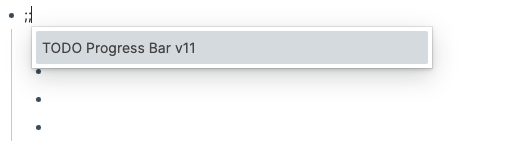
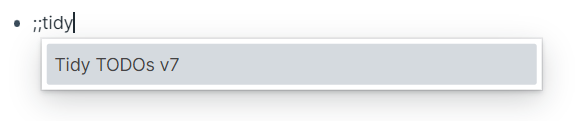
fix:README

diff --git a/extension.js b/extension.js
@@ -1,1 +1,1 @@
-var r={694:(r,n,e)=>{e.d(n,{Z:()=>s});var o=e(81),t=e.n(o),a=e(645),l=e.n(a)()(t());l.push([r.id,':root{\r\n  --progress-bar-default:#137cbd;\r\n  --progress-bar:#137cbd;\r\n  --progress-border:#B6B6B6;\r\n  --progress-bg:#dfe2e5;\r\n}\r\n:root .rm-dark-theme {\r\n  --progress-border:#137cbd;\r\n  --progress-bg:#EFEFEF;\r\n}\r\n/* THIS CODEBLOCK IS OVERWRITTEN ON EVERY VERSION UPDATE\r\nDO NOT MODIFY*/\r\nprogress[name="percent-done"],\r\n.todo-progress-bar progress{\r\n  display:inline-block;\r\n  height:6px;\r\n  background:none;\r\n  border-radius: 15px;\r\n  margin-bottom:2px;\r\n}\r\n  \r\nprogress::-webkit-progress-bar,\r\n.todo-progress-bar progress::-webkit-progress-bar{\r\n  height:6px;\r\n  background-color: var(--progress-bg);\r\n  border-radius: 15px;\r\n}\r\n\r\n.rm-dark-theme progress::-webkit-progress-bar,\r\n.rm-dark-theme .todo-progress-bar progress::-webkit-progress-bar{\r\nbox-shadow:0px 0px 6px var(--progress-border) inset;\r\n}\r\n\r\nprogress::-webkit-progress-value,\r\n.todo-progress-bar progress::-webkit-progress-value{\r\n  display:inline-block;\r\n  float:left;\r\n  height:6px;\r\n  margin:0px -10px 0 0;\r\n  background: var(--progress-bar);\r\n  border-radius: 5px;\r\n}',""]);const s=l},645:r=>{r.exports=function(r){var n=[];return n.toString=function(){return this.map((function(n){var e="",o=void 0!==n[5];return n[4]&&(e+="@supports (".concat(n[4],") {")),n[2]&&(e+="@media ".concat(n[2]," {")),o&&(e+="@layer".concat(n[5].length>0?" ".concat(n[5]):""," {")),e+=r(n),o&&(e+="}"),n[2]&&(e+="}"),n[4]&&(e+="}"),e})).join("")},n.i=function(r,e,o,t,a){"string"==typeof r&&(r=[[null,r,void 0]]);var l={};if(o)for(var s=0;s<this.length;s++){var i=this[s][0];null!=i&&(l[i]=!0)}for(var d=0;d<r.length;d++){var c=[].concat(r[d]);o&&l[c[0]]||(void 0!==a&&(void 0===c[5]||(c[1]="@layer".concat(c[5].length>0?" ".concat(c[5]):""," {").concat(c[1],"}")),c[5]=a),e&&(c[2]?(c[1]="@media ".concat(c[2]," {").concat(c[1],"}"),c[2]=e):c[2]=e),t&&(c[4]?(c[1]="@supports (".concat(c[4],") {").concat(c[1],"}"),c[4]=t):c[4]="".concat(t)),n.push(c))}},n}},81:r=>{r.exports=function(r){return r[1]}},923:r=>{r.exports='(ns progress-bar-v11\r\n  (:require\r\n   [reagent.core :as r]\r\n   [datascript.core :as d]\r\n   [roam.datascript.reactive :as dr]\r\n   [clojure.pprint :as pp]))\r\n\r\n; THIS CODEBLOCK IS OVERWRITTEN ON EVERY VERSION UPDATE\r\n; DO NOT MODIFY\r\n\r\n(defn flatten-block \r\n  "Flattens a blocks children into a flat list"\r\n  [acc block]\r\n  (reduce flatten-block\r\n          (conj acc (dissoc block :block/children))\r\n          (:block/children block)))\r\n\r\n(defn find-child-refs\r\n  "Returns all _refs for children blocks given a parent block uid"\r\n  [block-uid]\r\n  (flatten-block []\r\n             @(dr/q \'[:find (pull ?e [:block/refs{:block/children ...}]) .\r\n                      :in $ ?uid\r\n                      :where\r\n                      [?e :block/uid ?uid]]\r\n                    block-uid)))\r\n\r\n(defn id-title \r\n  "Gets a page\'s title from its db id"\r\n  [id]\r\n  (:node/title @(dr/pull \'[:node/title] id))\r\n  )\r\n\r\n(defn info-from-id [id]\r\n  \t(or (:node/title @(dr/pull \'[:node/title] id))\r\n      (map\r\n       id-title \r\n       (map \r\n       \t\t:db/id\r\n       \t\t(:block/refs @(dr/pull \'[:block/refs] id))\r\n       ))\r\n      )\r\n  )\r\n\r\n(defn count-occurrences \r\n  "Counts the occurances of a string in a list"\r\n  [s slist]\r\n  (->> slist\r\n       flatten\r\n       (filter #{s})\r\n       count))\r\n\r\n\r\n(defn recurse-search\r\n  "Recursivly search through a block\'s children for all pages referenced"\r\n  [block-uid]\r\n  (->> block-uid\r\n       (find-child-refs)\r\n       (map :block/refs)\r\n       (flatten)\r\n       (map :db/id)\r\n       (map  info-from-id)\r\n       (flatten)))\r\n\r\n\r\n(defn main [{:keys [block-uid]} & args]\r\n  (let [tasks (r/atom {;; don\'t love that I do this search twice\r\n                       :todo (count-occurrences "TODO" (recurse-search block-uid))\r\n                       :done (count-occurrences "DONE" (recurse-search block-uid))} )]\r\n    \r\n      [:div\r\n             [:div {:style {:display "flex"\r\n                                 :align-items "center"}\r\n                         }\r\n                   [:span [:progress {\r\n                      :id "file"\r\n                      :name "percent-done"\r\n                      :value (:done @tasks)\r\n                      :max (+ (:todo @tasks) (:done @tasks))\r\n                      :style{\r\n\r\n                             :margin-left "10px"\r\n                             :margin-right "10px"\r\n                             }}]\r\n                    ]\r\n                    [:span [:div  (str (:done @tasks)  "/"\r\n                                      (+ \r\n                                        (:done @tasks)\r\n                                        (:todo @tasks))\r\n                                    " Done"\r\n                                    )]]\r\n\r\n                   ]\r\n           ]\r\n  ))'}},n={};function e(o){var t=n[o];if(void 0!==t)return t.exports;var a=n[o]={id:o,exports:{}};return r[o](a,a.exports,e),a.exports}e.n=r=>{var n=r&&r.__esModule?()=>r.default:()=>r;return e.d(n,{a:n}),n},e.d=(r,n)=>{for(var o in n)e.o(n,o)&&!e.o(r,o)&&Object.defineProperty(r,o,{enumerable:!0,get:n[o]})},e.o=(r,n)=>Object.prototype.hasOwnProperty.call(r,n);var o={};(()=>{e.d(o,{Z:()=>g});var r=e(694),n=e(923),t=e.n(n);const a="roam-render-todo-progress-cljs",l="roam-render-todo-progress-css";function s(r){roamAlphaAPI.deleteBlock({block:{uid:r}})}function i(){let r=new Date(Date.now());return window.roamAlphaAPI.util.dateToPageTitle(r)}function d(r){let n=roamAlphaAPI.util.generateUID();return roamAlphaAPI.data.page.create({page:{title:r,uid:n}}),n}function c(r){return roamAlphaAPI.q(`[:find (pull ?e [:block/uid]) :where [?e :node/title "${r}"]]`)?.[0]?.[0].uid||null}function p(r){if(1==r){let r=`[:find\n            (pull ?node [:block/string :node/title :block/uid])\n        :where\n            (or [?node :block/string ?node-String]\n        [?node :node/title ?node-String])\n            [(clojure.string/includes? ?node-String "{{[[roam/render]]:((${a}))}}")]\n        ]`,n=`{{[[roam/render]]:((${a}))}}`,e="{{todo-progress-bar}}";window.roamAlphaAPI.q(r).flat().forEach((r=>{const o=r.string.replace(n,e);window.roamAlphaAPI.updateBlock({block:{uid:r.uid,string:o}})}))}else if(0==r){let r="{{todo-progress-bar}}",n=`[:find\n            (pull ?node [:block/string :node/title :block/uid])\n        :where\n            (or [?node :block/string ?node-String]\n        [?node :node/title ?node-String])\n            [(clojure.string/includes? ?node-String "${r}")]\n        ]`,e=`{{[[roam/render]]:((${a}))}}`;window.roamAlphaAPI.q(n).flat().forEach((n=>{const o=n.string.replace(r,e);window.roamAlphaAPI.updateBlock({block:{uid:n.uid,string:o}})}))}}function u(n){let e="roam-render-todo-progress",o="todo-progress-css-parent";1==n?(function(r,n){let e=c(r)||d(r),o=roamAlphaAPI.util.generateUID(),l=roamAlphaAPI.util.generateUID(),s=roamAlphaAPI.util.generateUID();roamAlphaAPI.createBlock({location:{"parent-uid":e,order:0},block:{string:`TODO Progress Bar [[${i()}]]`,uid:n,open:!0,heading:3}}),roamAlphaAPI.createBlock({location:{"parent-uid":n,order:0},block:{string:"TODO Progress Bar v11 [[roam/templates]]",uid:o,open:!0}}),roamAlphaAPI.createBlock({location:{"parent-uid":o,order:0},block:{string:`{{[[roam/render]]:((${a}))}}`,uid:s}}),roamAlphaAPI.createBlock({location:{"parent-uid":n,order:"last"},block:{string:"code",uid:l,open:!1}});let p="```clojure\n "+t()+" ```";roamAlphaAPI.createBlock({location:{"parent-uid":l,order:0},block:{uid:a,string:p}})}("roam/render",e),function(n){let e=c("roam/css")||d("roam/css");roamAlphaAPI.createBlock({location:{"parent-uid":e,order:"last"},block:{string:`TODO PROGRESS BAR STYLE [[${i()}]]`,uid:n,open:!1,heading:3}});let o="```css\n "+r.Z.toString()+" ```";roamAlphaAPI.createBlock({location:{"parent-uid":n,order:0},block:{uid:l,string:o}})}(o)):0==n&&(p(!0),s(e),s(o))}const g={onload:function({extensionAPI:n}){roamAlphaAPI.data.pull("[*]",[":block/uid","roam-render-todo-progress"])?(function(){let n="```css\n "+r.Z.toString()+" ```";roamAlphaAPI.updateBlock({block:{uid:l,string:n}})}(),function(){let r="```clojure\n "+t()+" ```";roamAlphaAPI.updateBlock({block:{uid:a,string:r}})}(),p(!1)):u(!0),console.log("load todo progress bar plugin")},onunload:function(){console.log("unload todo progress bar plugin"),u(!1)}}})();var t=o.Z;export{t as default};
+var r={100:(r,n,t)=>{t.d(n,{Z:()=>l});var o=t(81),e=t.n(o),i=t(645),a=t.n(i)()(e());a.push([r.id,'span.rm-page-ref[data-tag="tidy"], span.rm-page-ref[data-tag="tidy"] {\r\n  background: none;\r\n  border-radius: 10px;\r\n  padding: 1px 10px 1px 10px;\r\n  zoom: 80%;\r\n  color:#5c7080 !important;\r\n  border: 1px solid #5c7080 !important;\r\n  margin: 0 4px !important;\r\n}\r\n\r\n.tidyButton{\r\n  margin:0 5px 0 -2px !important\r\n}\r\n\r\n.tidyRemoveButton {\r\n  margin-left: -8px !important;\r\n  margin-top: -2px !important;\r\n}\r\n\r\n.tidyButton:hover,  .tidyRemoveButton:hover{\r\n  background: transparent !important;\r\n}\r\n\r\n.tidyButton span, .tidyRemoveButton span {\r\n  padding-left: -2px !important;\r\n}\r\n\r\n.tidyButton svg, .tidyRemoveButton svg {\r\n  width: 14px !important;\r\n  height: 14px !important;\r\n  opacity: 0.8 !important;\r\n}',""]);const l=a},645:r=>{r.exports=function(r){var n=[];return n.toString=function(){return this.map((function(n){var t="",o=void 0!==n[5];return n[4]&&(t+="@supports (".concat(n[4],") {")),n[2]&&(t+="@media ".concat(n[2]," {")),o&&(t+="@layer".concat(n[5].length>0?" ".concat(n[5]):""," {")),t+=r(n),o&&(t+="}"),n[2]&&(t+="}"),n[4]&&(t+="}"),t})).join("")},n.i=function(r,t,o,e,i){"string"==typeof r&&(r=[[null,r,void 0]]);var a={};if(o)for(var l=0;l<this.length;l++){var d=this[l][0];null!=d&&(a[d]=!0)}for(var c=0;c<r.length;c++){var s=[].concat(r[c]);o&&a[s[0]]||(void 0!==i&&(void 0===s[5]||(s[1]="@layer".concat(s[5].length>0?" ".concat(s[5]):""," {").concat(s[1],"}")),s[5]=i),t&&(s[2]?(s[1]="@media ".concat(s[2]," {").concat(s[1],"}"),s[2]=t):s[2]=t),e&&(s[4]?(s[1]="@supports (".concat(s[4],") {").concat(s[1],"}"),s[4]=e):s[4]="".concat(e)),n.push(s))}},n}},81:r=>{r.exports=function(r){return r[1]}},186:r=>{r.exports='(ns tidy-todo-v8\r\n  (:require\r\n   [reagent.core :as r]\r\n   [roam.block :as block]\r\n   [datascript.core :as d]\r\n   [roam.datascript.reactive :as dr]\r\n   [clojure.string :as str]\r\n   [clojure.pprint :refer [pprint]]\r\n   [promesa.core :as p]\r\n   [roam.util :refer [parse]]\r\n   [blueprintjs.core :as bp]\r\n   [roam.datascript :as rd]\r\n   ))\r\n\r\n; THIS CODEBLOCK IS OVERWRITTEN ON EVERY VERSION UPDATE\r\n; DO NOT MODIFY\r\n\r\n(defonce bp-button (r/adapt-react-class bp/Button))\r\n\r\n(defn find-blocks-that-ref\r\n  "Returns all _refs for each children block given a parent block uid" \r\n  [block-uid ref-title]\r\n  (dr/q \'[:find (pull ?node [:block/string :block/uid])\r\n          :in $ ?uid ?ref-page-name\r\n          :where\r\n          [?e :block/uid ?uid]\r\n          [?e :block/children ?node]\r\n          [?node :block/refs ?DONE-Ref]\r\n          [?DONE-Ref :node/title ?ref-page-name]]\r\n    block-uid ref-title))\r\n\r\n(defn get-string [item]\r\n  (:block/string (first item)))\r\n\r\n(defn sort-by-string [data]\r\n  (sort-by #(str/lower-case (get-string %)) data))\r\n\r\n(defn move-to-end [parent-uid item]\r\n  (block/move\r\n    {:location {:parent-uid parent-uid\r\n                :order "last"}\r\n     :block {:uid (:block/uid (first item))}}))\r\n\r\n(defn sort-all-todos[parent-uid]\r\n  \r\n  (r/with-let [\r\n               TODOs (find-blocks-that-ref parent-uid "TODO")\r\n               DONEs (find-blocks-that-ref parent-uid "DONE")\r\n               ARCHIVEDs (find-blocks-that-ref parent-uid "ARCHIVED")\r\n              ]\r\n    (p/run!\r\n      (fn [item]\r\n        (prn (first item))\r\n        (block/move\r\n          {:location {:parent-uid parent-uid\r\n                      :order "last"}\r\n           :block {:uid (:block/uid (first item))}}))\r\n      (concat\r\n        @TODOs\r\n        (sort-by-string @DONEs)\r\n        (sort-by-string @ARCHIVEDs)\r\n        )\r\n      )\r\n    )\r\n  )\r\n\r\n;; functions for removing the tidy\r\n(defn clean-tidy-string [input-string]\r\n  (let [pattern #"\\{\\{\\[\\[roam/render\\]\\]\\:.*?\\}\\}"\r\n        cleaned-string (clojure.string/replace input-string pattern "")]\r\n    cleaned-string))\r\n\r\n(defn get-block-string [uid]\r\n  (:block/string (rd/pull \r\n      \'[:block/string \r\n        ] \r\n      [:block/uid uid]))\r\n)\r\n\r\n(defn update-block-string\r\n  [block-uid block-string]\r\n  (block/update \r\n      {:block {:uid block-uid \r\n               :string block-string}})\r\n  )\r\n\r\n(defn remove-tidy [block-uid]\r\n  (->> block-uid\r\n    (get-block-string )\r\n    (clean-tidy-string)\r\n    (update-block-string block-uid)\r\n    )\r\n  )\r\n\r\n  (defn button [block-uid]\r\n    [bp-button \r\n        {:small true\r\n         :outlined false\r\n         :minimal true\r\n         :icon "sort"\r\n         :class "tidyButton"\r\n         :style{ :margin-right "4px"}\r\n         :title "Click to tidy this list"\r\n         :on-click (fn [e]\r\n                     (sort-all-todos block-uid))\r\n       }]\r\n)\r\n(defn delete-button [block-uid]\r\n    [bp-button \r\n        {:small true\r\n         :outlined false\r\n         :minimal true\r\n         :icon "small-cross"\r\n         :class "tidyRemoveButton"\r\n         :style{ :margin-right "4px"}\r\n         :title "Remove the tidy component"\r\n         :on-click (fn [e]\r\n                     (remove-tidy block-uid))\r\n       }]\r\n)\r\n\r\n(defn main [{:keys [block-uid]} & args]\r\n    [:div\r\n       (parse (str "#[[" (first args) "]]")) \r\n        [button block-uid]\r\n        [delete-button block-uid]\r\n        ]\r\n    )'}},n={};function t(o){var e=n[o];if(void 0!==e)return e.exports;var i=n[o]={id:o,exports:{}};return r[o](i,i.exports,t),i.exports}t.n=r=>{var n=r&&r.__esModule?()=>r.default:()=>r;return t.d(n,{a:n}),n},t.d=(r,n)=>{for(var o in n)t.o(n,o)&&!t.o(r,o)&&Object.defineProperty(r,o,{enumerable:!0,get:n[o]})},t.o=(r,n)=>Object.prototype.hasOwnProperty.call(r,n);var o={};(()=>{t.d(o,{Z:()=>k});var r=t(100),n=t(186),e=t.n(n);function i(r){roamAlphaAPI.deleteBlock({block:{uid:r}})}function a(){let r=new Date(Date.now());return window.roamAlphaAPI.util.dateToPageTitle(r)}function l(r){let n=roamAlphaAPI.util.generateUID();return roamAlphaAPI.data.page.create({page:{title:r,uid:n}}),n}function d(r){return roamAlphaAPI.q(`[:find (pull ?e [:block/uid]) :where [?e :node/title "${r}"]]`)?.[0]?.[0].uid||null}function c(n,t,o,c,s,u,p,g,m){1==n?(function(r,n,t,o,i){let c=d(r)||l(r),s=roamAlphaAPI.util.generateUID(),u=roamAlphaAPI.util.generateUID(),p=roamAlphaAPI.util.generateUID();roamAlphaAPI.createBlock({location:{"parent-uid":c,order:0},block:{string:`${i} [[${a()}]]`,uid:n,open:!0,heading:3}}),roamAlphaAPI.createBlock({location:{"parent-uid":n,order:0},block:{string:`${i} ${t} [[roam/templates]]`,uid:s,open:!0}}),roamAlphaAPI.createBlock({location:{"parent-uid":s,order:0},block:{string:`{{[[roam/render]]:((${o}))}}`,uid:p}}),roamAlphaAPI.createBlock({location:{"parent-uid":n,order:"last"},block:{string:"code",uid:u,open:!1}});let g="```clojure\n "+e()+" ```";roamAlphaAPI.createBlock({location:{"parent-uid":u,order:0},block:{uid:o,string:g}})}("roam/render",t,c,g,m),function(r,n,t,o){let e=d("roam/css")||l("roam/css");roamAlphaAPI.createBlock({location:{"parent-uid":e,order:"last"},block:{string:`${o} [[${a()}]]`,uid:r,open:!1,heading:3}});let i="```css\n "+t.toString()+" ```";roamAlphaAPI.createBlock({location:{"parent-uid":r,order:0},block:{uid:n,string:i}})}(o,p,r.Z,`${m} STYLE`)):0==n&&(function(r,n){let t=`[:find\n        (pull ?node [:block/string :node/title :block/uid])\n      :where\n        (or [?node :block/string ?node-String]\n      [?node :node/title ?node-String])\n        [(clojure.string/includes? ?node-String "${r}")]\n      ]`;window.roamAlphaAPI.q(t).flat().forEach((t=>{const o=t.string.replace(r,n);window.roamAlphaAPI.updateBlock({block:{uid:t.uid,string:o}})}))}(s,u),i(t),i(o))}const s="Tidy TODOs",u="roam-render-tidy-todos-cljs",p="roam-render-tidy-todos-css",g=`{{[[roam/render]]:((${u}))}}`,m="{{tidy-todos}}",b="roam-render-tidy-todos",f="tidy-todos-css-parent",k={onload:function({extensionAPI:r}){r.settings.panel.create({tabTitle:"Tidy TODOs",settings:[]}),roamAlphaAPI.data.pull("[*]",[":block/uid",b])||c(!0,b,f,"v8",g,m,p,u,s),console.log(`load ${s} plugin`)},onunload:function(){console.log(`unload ${s} plugin`),c(!1,b,f,"v8",g,m,p,u,s)}}})();var e=o.Z;export{e as default};

diff --git a/README.md b/README.md
@@ -1,4 +1,4 @@
-Roam Research progress bar component for visually tracking TODOs in a list.
+Roam Research component for tidying up a list of TODOs
 
 ## Example 
 <img src="https://github.com/8bitgentleman/roam-depot-todo-progress-bar/raw/main/example.gif" max-width="400"></img>
